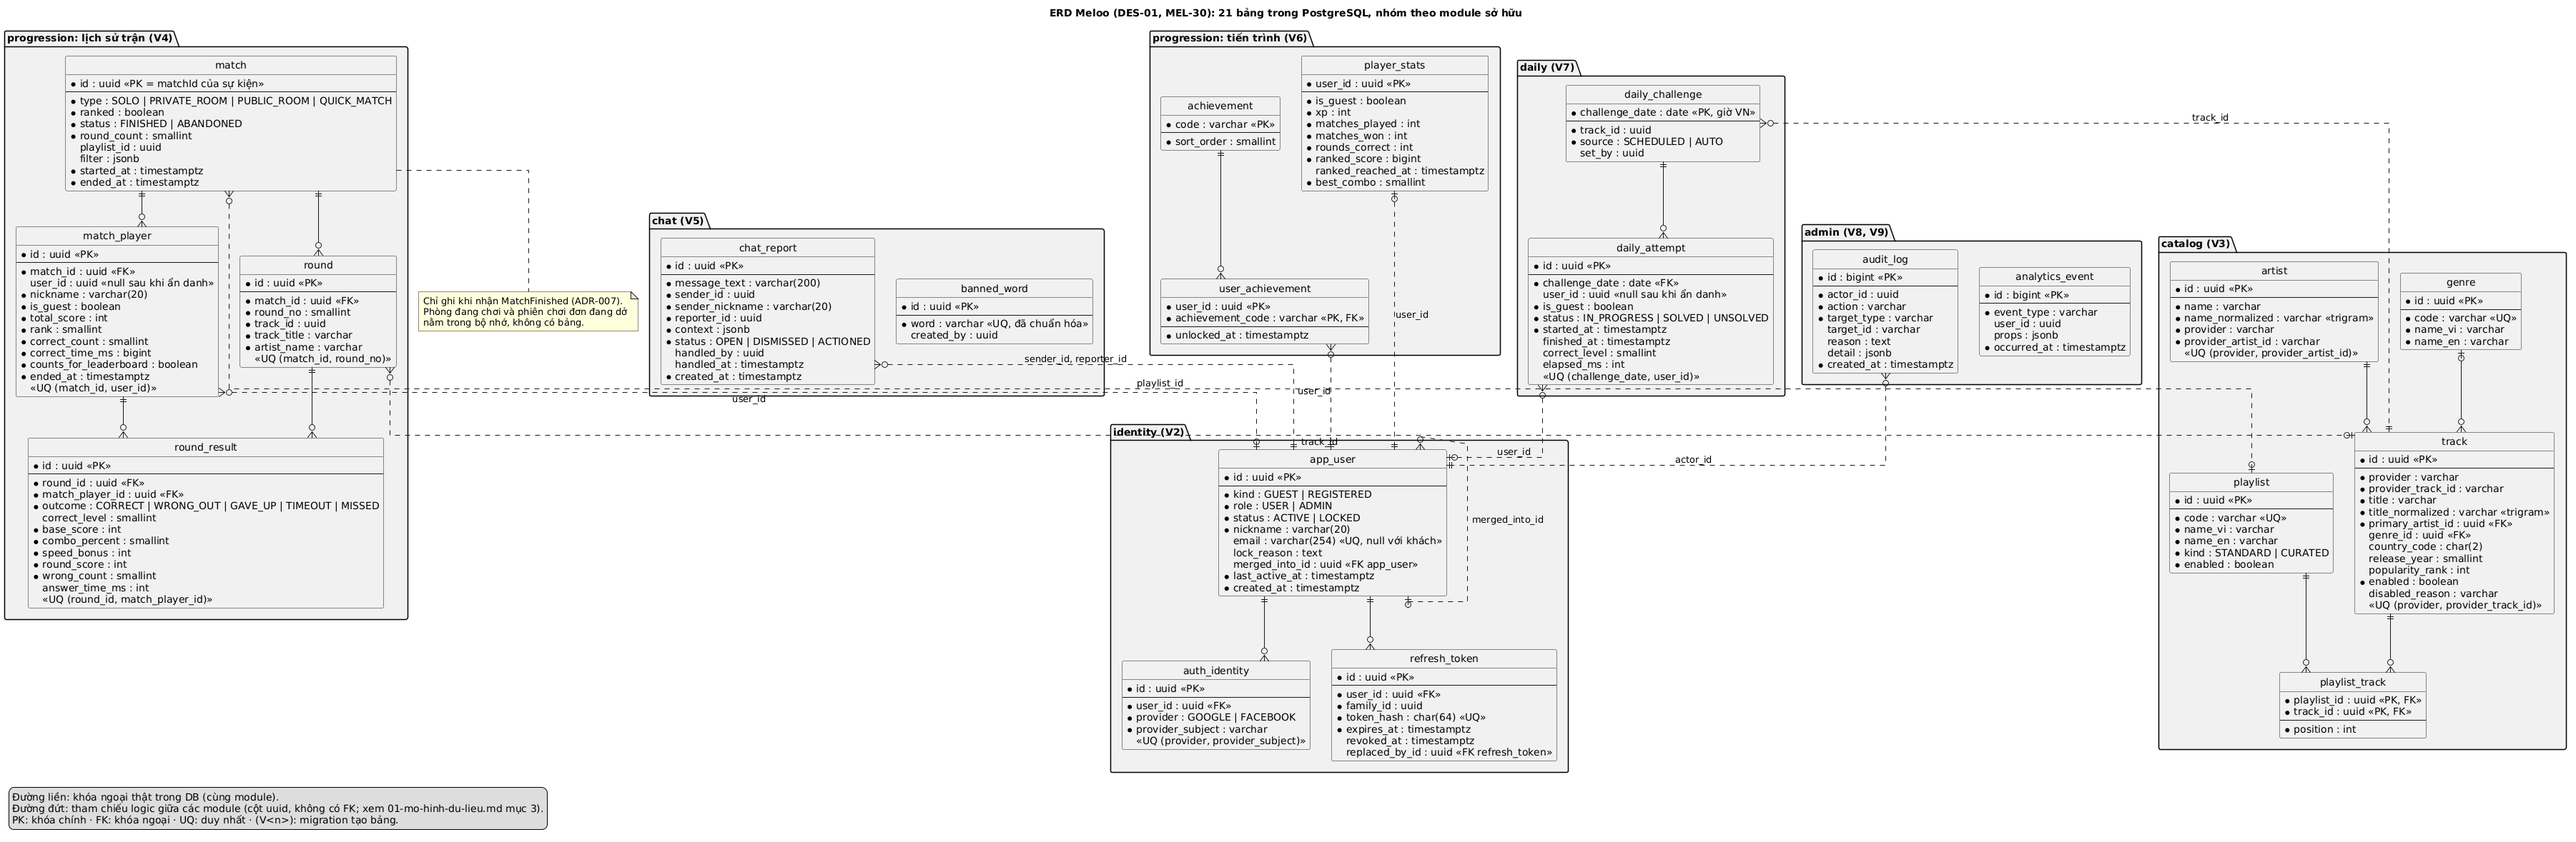
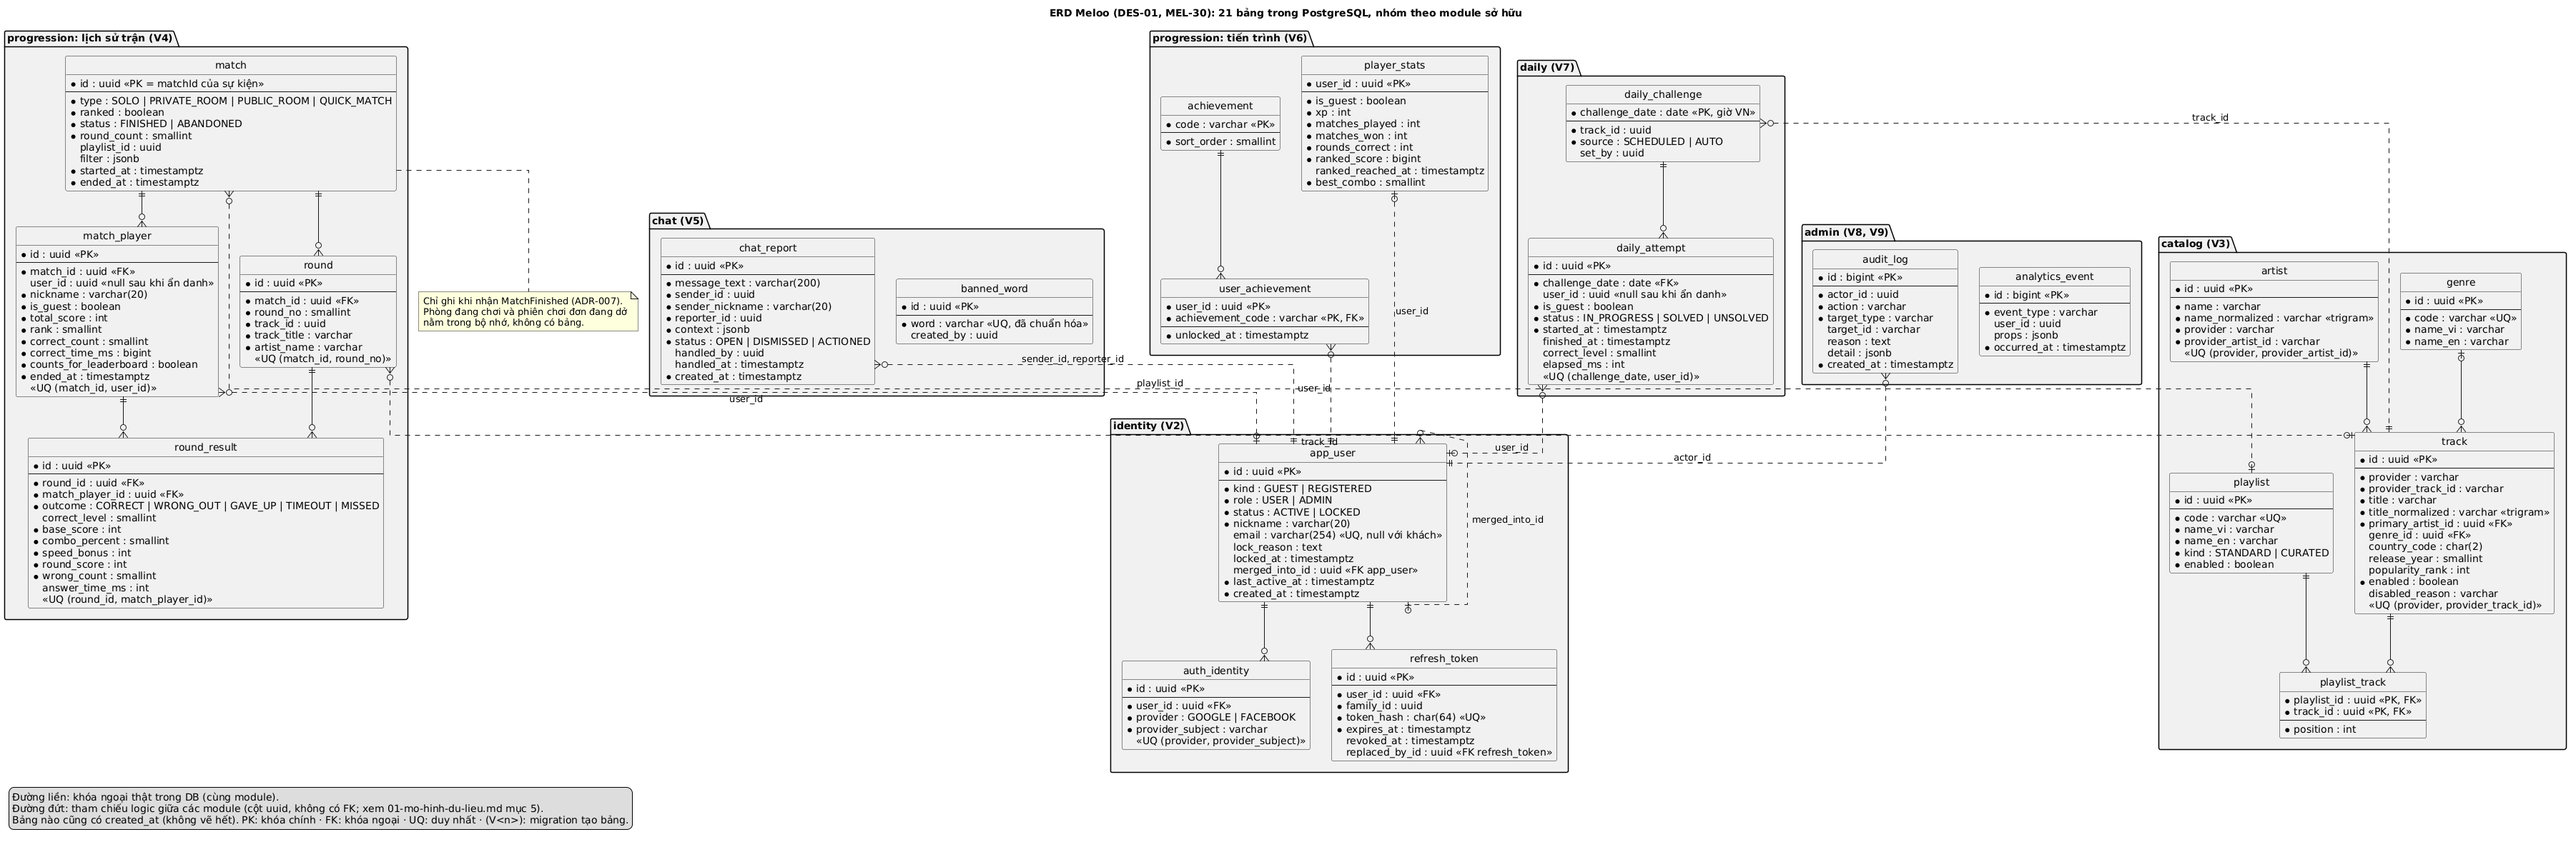
docs(data): sửa theo QA (legend, cột locked_at, quan hệ lớp, bảng sự kiện)

diff --git a/docs/architecture/data/02-tu-dien-du-lieu.md b/docs/architecture/data/02-tu-dien-du-lieu.md
@@ -133,7 +133,7 @@ Index `(status, created_at)`, `(sender_id)`.
 |---|---|---|---|
 | id | uuid | PK | chính là `matchId` của sự kiện, nên ghi lặp thì trùng khóa (idempotent) |
 | type | varchar(16) | not null, check `SOLO`/`PRIVATE_ROOM`/`PUBLIC_ROOM`/`QUICK_MATCH` | BR-23 |
-| ranked | boolean | not null | BR-23 |
+| ranked | boolean | not null; check `status <> 'ABANDONED' or not ranked` | BR-23: trận bỏ dở không tính xếp hạng |
 | status | varchar(10) | not null, check `FINISHED`/`ABANDONED` | `ABANDONED`: chơi đơn quá 30 phút |
 | round_count | smallint | not null, check 5/10/15 | BR-09 |
 | playlist_id | uuid | null, ref `playlist` | |
@@ -200,7 +200,7 @@ Unique `(round_id, match_player_id)`; index `(match_player_id)`.
 | ranked_score | bigint | not null default 0 | bảng toàn thời gian (BR-24) |
 | ranked_reached_at | timestamptz | null | thời điểm đạt `ranked_score` hiện tại; bằng điểm thì ai đạt trước xếp trên |
 
-Index: `(ranked_score desc, ranked_reached_at) where not is_guest`.
+Index: `(ranked_score desc, ranked_reached_at) where not is_guest`. Khi gộp khách, nếu tài khoản đã có dòng thì cộng dồn số liệu và bỏ dòng của khách (`ranked_reached_at` lấy mốc muộn hơn); cách cài đặt do BE-PROG-01 quyết.
 
 ### `achievement`
 | Cột | Kiểu | Ràng buộc | Ghi chú |
